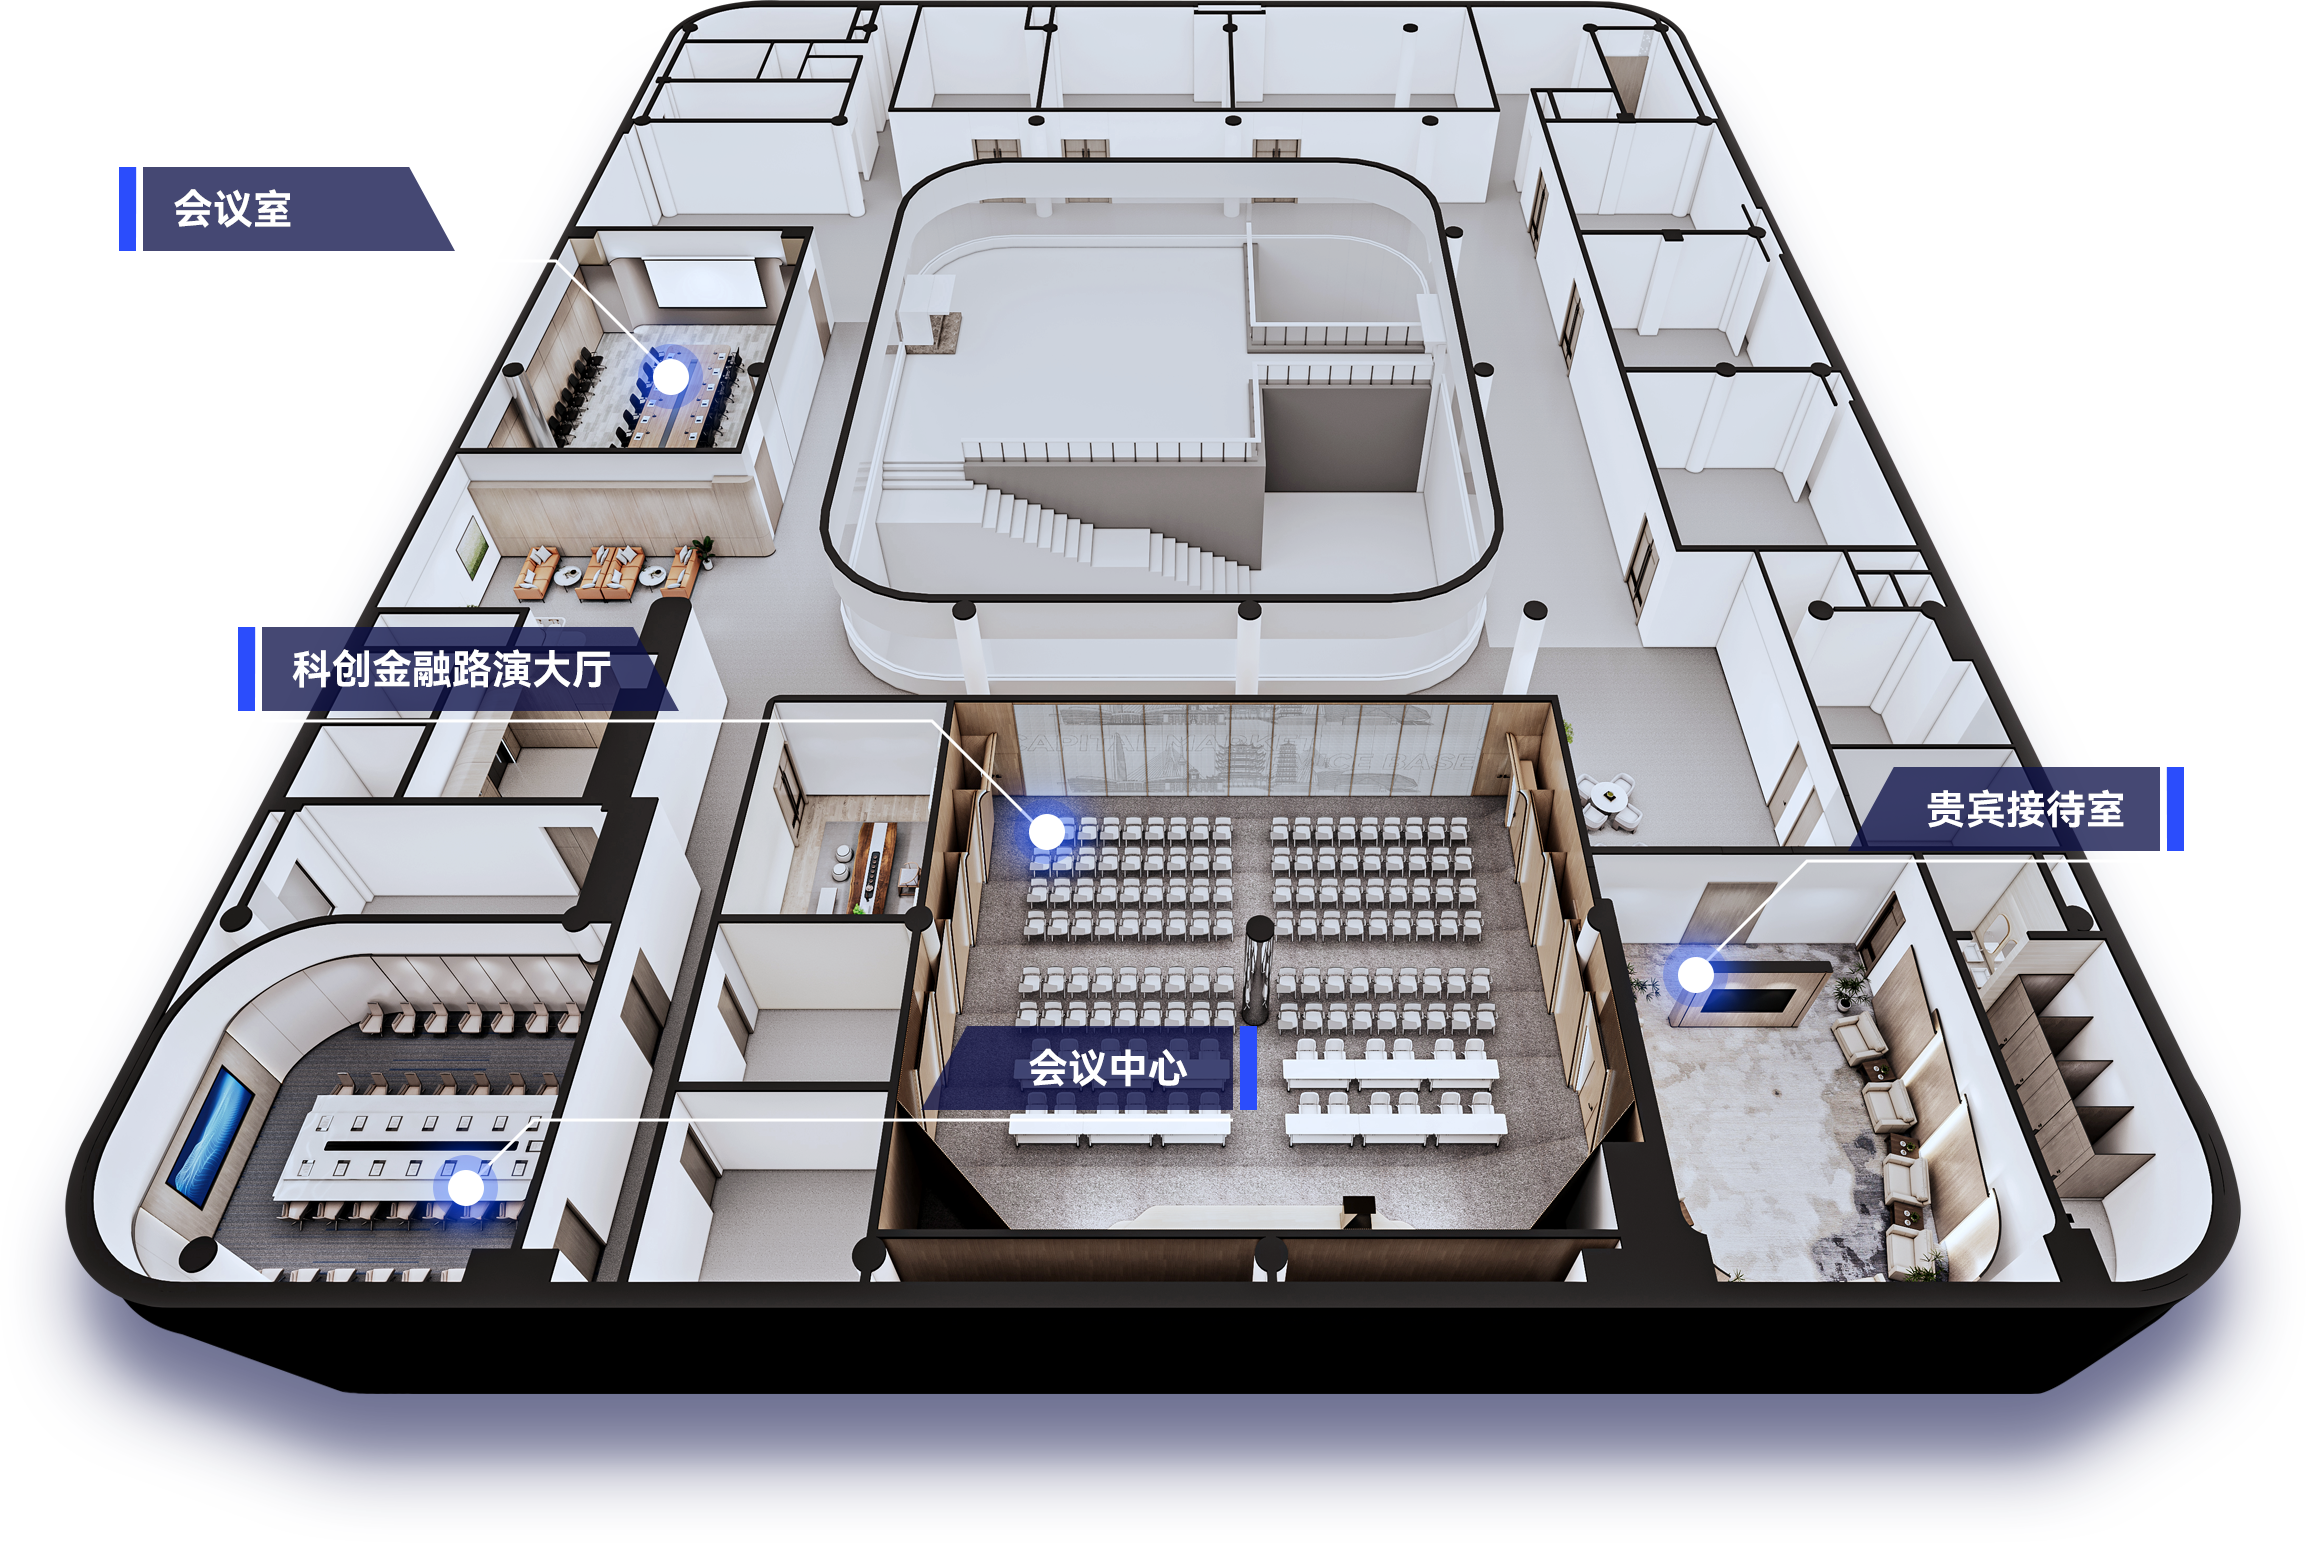
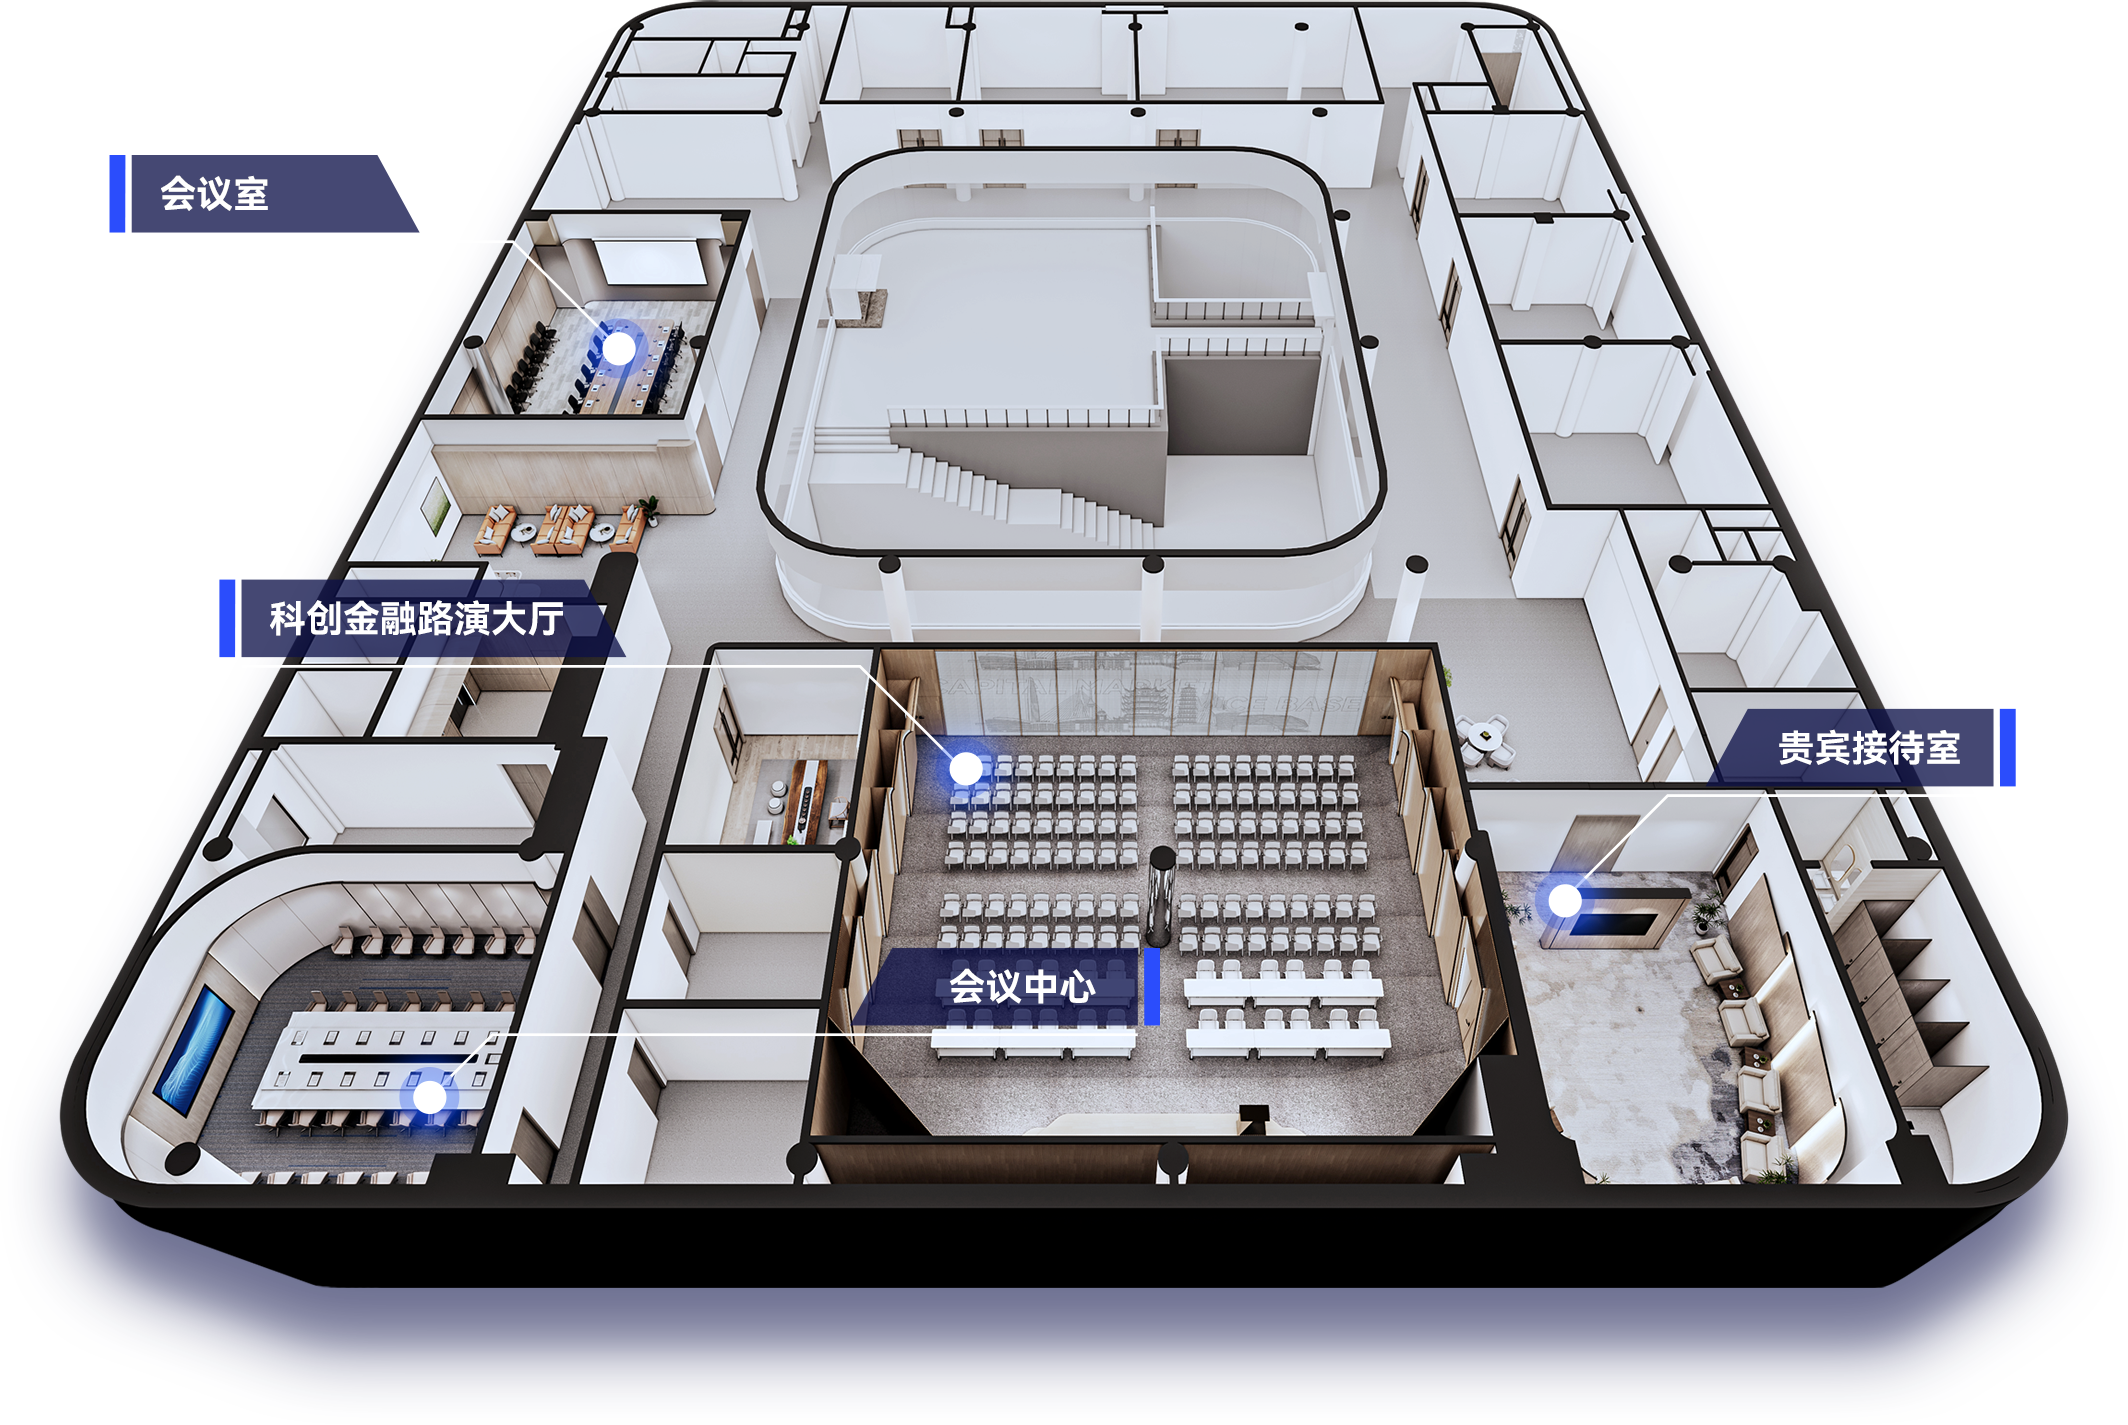
update: 基地总览分辨率更改

diff --git a/jidizonglan/src/pages/third/index.module.scss b/jidizonglan/src/pages/third/index.module.scss
@@ -27,8 +27,10 @@
 
         .button {
             position: absolute;
-            width: 590px;
-            height: 250px;
+            width: 560px;
+            height: 233px;
+            // background-color: red;
+            // opacity: 0.5;
         }
 
         .loopVideo {
@@ -38,20 +40,20 @@
 
         .back {
             position: absolute;
-            left: 1452px;
-            top: 3594px;
+            left: 1340px;
+            top: 3317px;
         }
 
         .building {
             position: absolute;
-            left: 88px;
-            top: 1402px;
+            left: 81px;
+            top: 1294px;
         }
 
         .building2 {
             position: absolute;
-            left: 82px;
-            top: 1562px;
+            left: 75px;
+            top: 1441px;
         }
 
         .button1 {
@@ -76,40 +78,45 @@
 
         .oneSelect1 {
             position: absolute;
-            left: 236px;
-            top: 3350px;
+            left: 218px;
+            top: 3092px;
         }
 
         .oneSelect2 {
             position: absolute;
-            left: 809px;
-            top: 3520px;
+            left: 747px;
+            top: 3249px;
         }
 
         .twoSelect1 {
             position: absolute;
-            left: 367px;
-            top: 3322px;
+            left: 338px;
+            top: 3251px;
         }
 
         .twoSelect2 {
             position: absolute;
-            left: 671px;
-            top: 3344px;
+            left: 619px;
+            top: 3087px;
         }
 
         .modal {
             position: absolute;
-            left: 306px;
-            top: 491px;
-            width: 1734px;
-            height: 3237px;
+            left: 0;
+            top: 0;
+            width: 100%;
+            height: 100%;
+
+            .modalBg {
+                position: absolute;
+                left: 282px;
+                top: 929px;
+            }
 
             .close {
                 position: absolute;
-                left: 1510px;
-                bottom: -20px;
-                transform: translate(-50%, 50%);
+                left: 1340px;
+                top: 3318px;
             }
         }
     }

diff --git a/jidizonglan/src/pages/third/index.js b/jidizonglan/src/pages/third/index.js
@@ -1,8 +1,8 @@
 import { useEffect, useState, memo, useMemo } from "react";
 import styles from "./index.module.scss";
 
-import oneUnSelect from '../../asset/third/1F(未选中).png';
-import oneSelected from '../../asset/third/1F(选中).png';
+import oneUnSelect from '../../asset/third/1F（未选中）.png';
+import oneSelected from '../../asset/third/1F（选中）.png';
 import oneBuilding from '../../asset/third/1F轴测.png';
 import twoBuilding from '../../asset/third/2F轴测.png';
 import twoUnSelect from '../../asset/third/2F（未选中）.png';
@@ -28,18 +28,18 @@ const modalData = {
 };
 
 const buiding1List = [
-    { name: '科创金融展厅', width: 590, left: 250, top: 1928 },
-    { name: '金融咖啡厅', width: 666, left: 1588, top: 2210 },
-    { name: '共享办公室', width: 650, left: 1260, top: 1950 },
-    { name: '机构办公区', width: 850, left: 1360, top: 1679 },
-    { name: '服务接待大厅', width: 866, left: 331, top: 2318 },
+    { name: '科创金融展厅', width: 560, left: 230, top: 1778 },
+    { name: '金融咖啡厅', width: 610, left: 1475, top: 2038 },
+    { name: '共享办公室', width: 615, left: 1153, top: 1792 },
+    { name: '机构办公区', width: 777, left: 1257, top: 1550 },
+    { name: '服务接待大厅', width: 806, left: 301, top: 2138 },
 ]
 
 const building2List = [
-    { name: '会议室', width:  590, left: 190, top: 1720 },
-    { name: '科创金融路演大厅', width: 866, left: 304, top: 2180 },
-    { name: '贵宾接待室', width: 535, left: 1742, top: 2322 },
-    { name: '会议中心', width: 844, left: 504, top: 2567 },
+    { name: '会议室', width:  566, left: 180, top: 1588 },
+    { name: '科创金融路演大厅', width: 800, left: 280, top: 2012 },
+    { name: '贵宾接待室', width: 495, left: 1602, top: 2142 },
+    { name: '会议中心', width: 787, left: 460, top: 2364 },
 ]
 
 const App = memo(function App({ handleBack }) {

diff --git a/jidizonglan/src/pages/second/index.module.scss b/jidizonglan/src/pages/second/index.module.scss
@@ -24,8 +24,8 @@
 
             .point {
                 position: relative;
-                width: 400px;
-                height: 400px;
+                width: 420px;
+                height: 420px;
                 background-image: url(./按钮.png);
                 background-repeat: no-repeat;
                 background-size: 100% 100%;
@@ -82,7 +82,7 @@
         .back {
             position: absolute;
             left: 50%;
-            top: 3350px;
+            top: 3150px;
             transform: translateX(-50%);
         }
 
@@ -96,16 +96,16 @@
 
             .modal {
                 position: absolute;
-                left: 306px;
-                top: 683px;
-                width: 1734px;
-                height: 2313px;
+                left: 282px;
+                top: 804px;
+                width: 1600px;
+                height: 2135px;
             }
 
             .close {
                 position: absolute;
                 left: 50%;
-                top: 2700px;
+                top: 2640px;
                 transform: translate(-50%, 50%);
                 z-index: 10;
             }

diff --git a/jidizonglan/src/pages/first/index.module.scss b/jidizonglan/src/pages/first/index.module.scss
@@ -7,19 +7,21 @@
 
     .button1 {
         position: absolute;
-        left: 185px;
-        top: 3500px;
+        left: 29%;
+        top: 3230px;
+        transform: translate(-50%);
     }
 
     .button2 {
         position: absolute;
-        left: 1204px;
-        top: 3500px;
+        left: 70%;
+        top: 3230px;
+        transform: translate(-50%);
     }
 
     .text {
         position: absolute;
-        left: 241px;
-        top: 1458px;
+        left: 222px;
+        top: 1345px;
     }
 }

diff --git a/jidizonglan/src/pages/first/index.js b/jidizonglan/src/pages/first/index.js
@@ -1,8 +1,8 @@
 import { useEffect, useRef, memo, useMemo, useState } from "react";
 import styles from "./index.module.scss";
 
-import 按钮1 from '../../asset/first/按钮1.png';
-import 按钮2 from '../../asset/first/按钮2.png';
+import 按钮1 from '../../asset/first/按键1.png';
+import 按钮2 from '../../asset/first/按键2.png';
 import 文字 from '../../asset/first/文字.png';
 
 const App = memo(function App({ handleToSecond, handleToThird }) {
